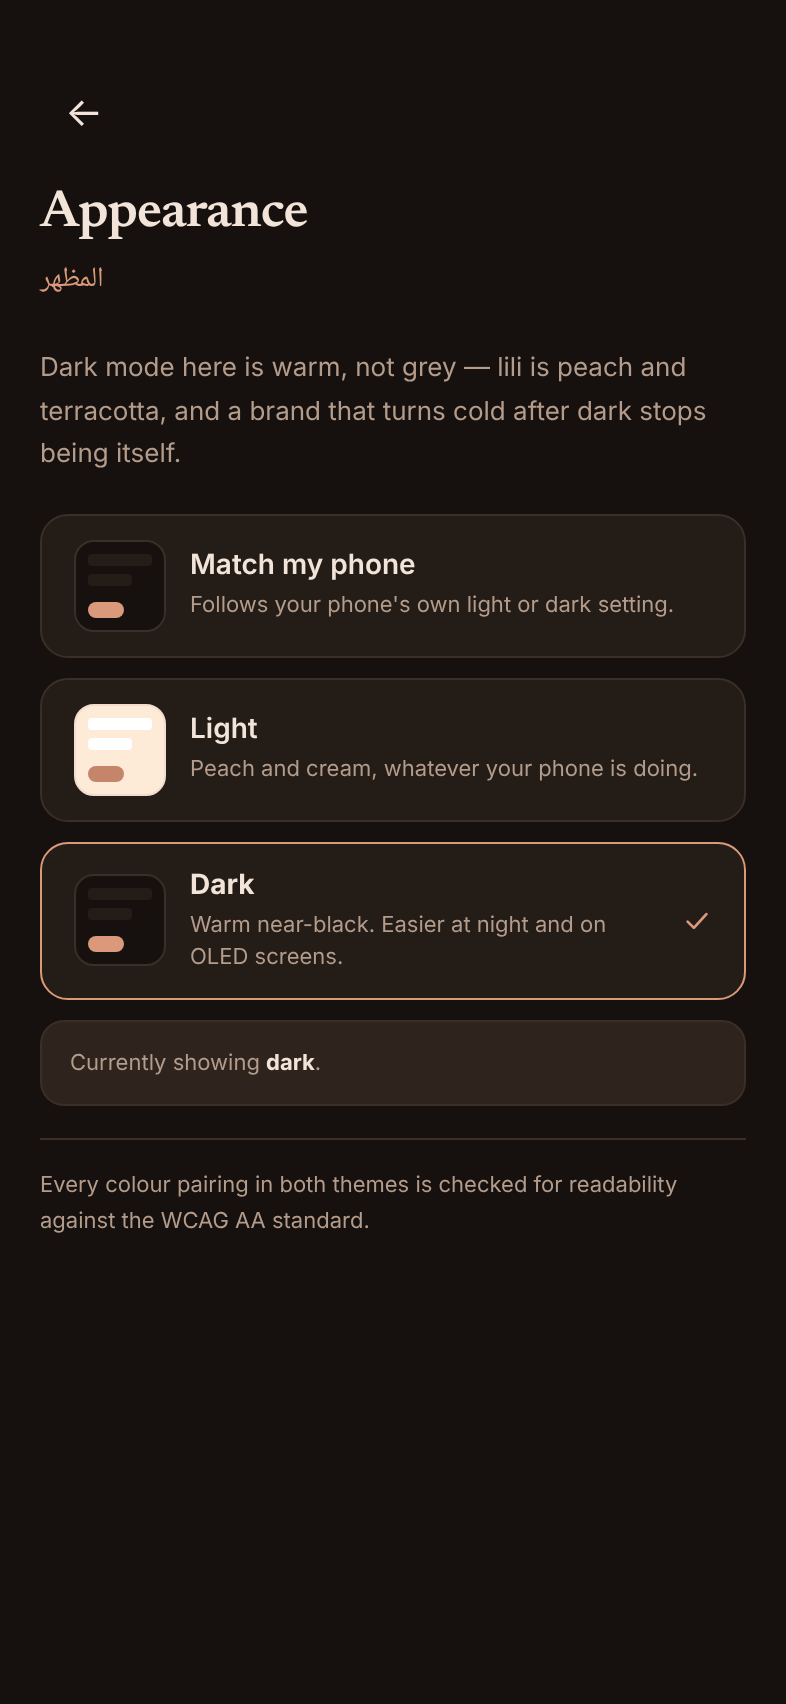
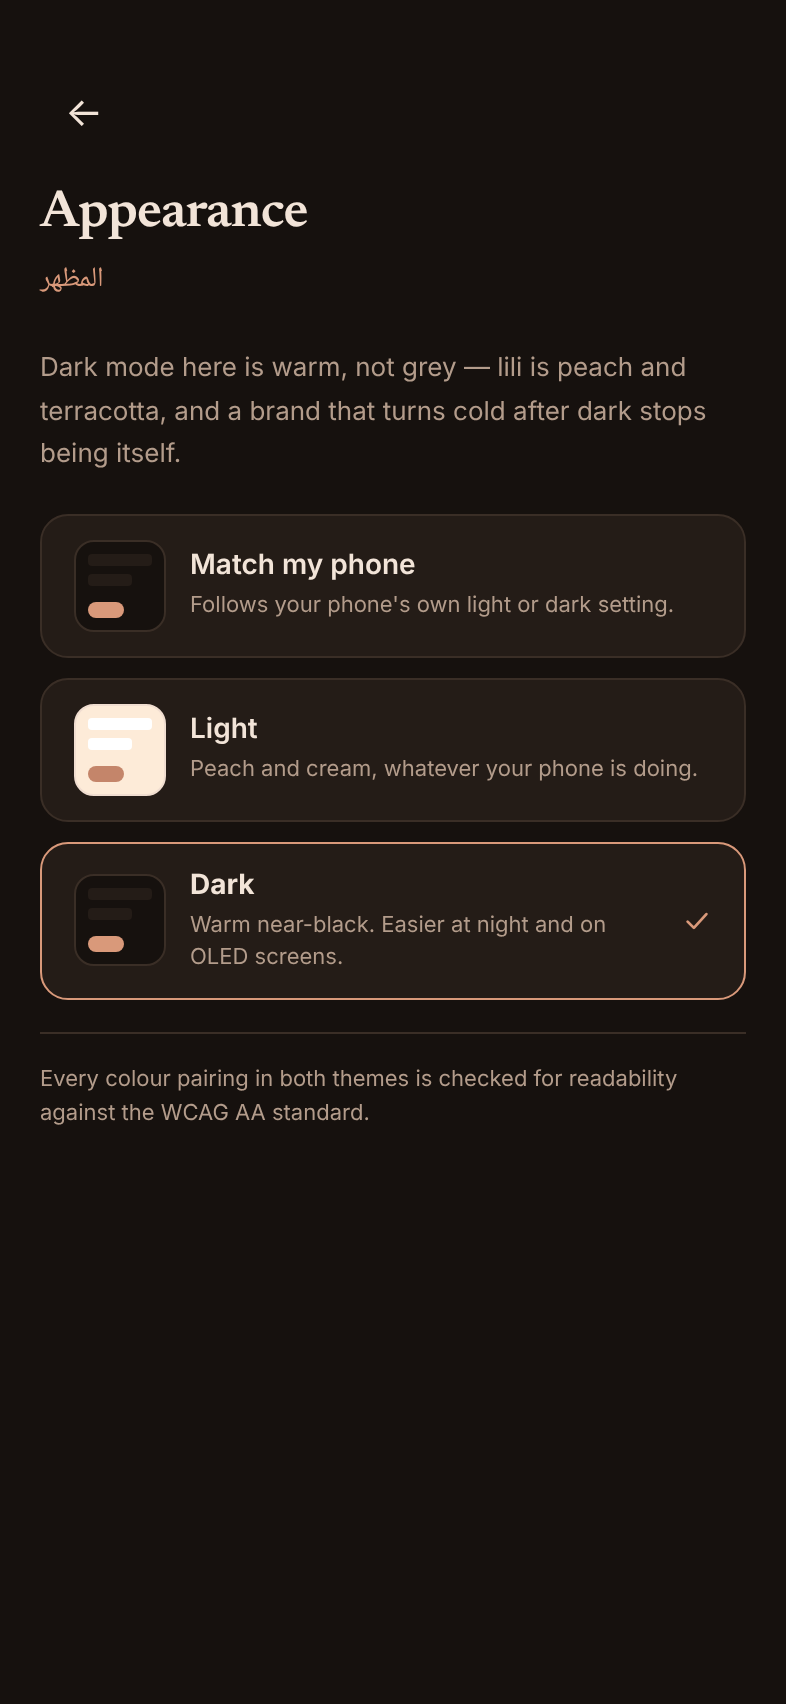
Feed polish: products without the pattern, honest shop rings, style picker and profile
- The palm pattern no longer sits behind product screens (home, search,
  saved, shops); it stays on the screens about lili
- The coloured ring around a shop now means it has new pieces (same 14-day
  rule as the NEW badge), and screen readers hear it; each shop in the strip
  is a button, so a keyboard can reach and scroll it (axe: scrollable region
  and prohibited aria-label fixed)
- Style picker tiles sit under the heading (the grid was centred, leaving a
  gap of about 380px, contrary to its own comment)
- Profile without a shop no longer shows '0 Listings / 0 Followers'
- Appearance shows 'Currently showing' only for Match my phone
- Offers row uses a tag glyph; brand labels on photo-less tiles fit narrow
  carousel tiles

Claude-Session: https://claude.ai/code/session_01P86DKSDSEYei5Au1GwvQne

Changed region(s): [[0.0305, 0.6221, 0.855, 0.7465], [0.7328, 0.6843, 0.855, 0.7154], [0.5802, 0.6843, 0.6718, 0.7154]]

diff --git a/app/src/Marketplace.jsx b/app/src/Marketplace.jsx
@@ -157,8 +157,10 @@ function TabBar({tab,setTab,myShop}) {
   );
 }
 
+const PRODUCT_TABS = ["home","search","saved","categories","shopview","myshop","cart","sellers"];
+
 // ── stories bar ────────────────────────────────────────────────────────────
-function StoriesBar({stories,shops,onStoryTap}) {
+function StoriesBar({stories,shops,items=[],onStoryTap}) {
   // v2.9: STORIES is a hardcoded five-element constant pointing at seed shop
   // ids. On a real catalogue those shops do not exist, `shops.find` returned
   // undefined and the label fell back to the word "Shop" — a row of stories
@@ -171,12 +173,19 @@ function StoriesBar({stories,shops,onStoryTap}) {
     <div style={{display:"flex",gap:10,padding:"10px 14px",overflowX:"auto",
       background:C.cream,borderBottom:`1px solid ${C.border}`}}>
       {live.map(({s,shop})=>{
+        // The coloured ring means "something new here" in every app she uses.
+        // It was drawn on every shop; now only where the shop has a piece
+        // that is actually a new arrival (same 14-day rule as the NEW badge).
+        const fresh = items.some(i => i.shopId === shop.id && isNewArrival(i));
         return (
-          <div key={s.id} onClick={()=>onStoryTap(s,shop)}
-            style={{display:"flex",flexDirection:"column",alignItems:"center",gap:5,cursor:"pointer",flexShrink:0}}>
+          // A button, not a clickable div: a keyboard (or switch) could not
+          // reach a single shop in this strip, nor scroll it.
+          <button key={s.id} onClick={()=>onStoryTap(s,shop)}
+            style={{display:"flex",flexDirection:"column",alignItems:"center",gap:5,cursor:"pointer",flexShrink:0,
+              background:"none",border:"none",padding:0,fontFamily:"inherit"}}>
             <div style={{width:58,height:58,borderRadius:"50%",
-              background:`linear-gradient(135deg,${C.terra},${C.gold})`,
-              padding:2.5,boxSizing:"border-box"}}>
+              background:fresh ? `linear-gradient(135deg,${C.terra},${C.gold})` : C.border,
+              padding:fresh ? 2.5 : 1,boxSizing:"border-box"}}>
               <div style={{width:"100%",height:"100%",borderRadius:"50%",
                 background:s.color,border:`2px solid ${C.white}`,
                 display:"flex",alignItems:"center",justifyContent:"center",fontSize:24}}>
@@ -197,8 +206,9 @@ function StoriesBar({stories,shops,onStoryTap}) {
               display:"-webkit-box",WebkitBoxOrient:"vertical",WebkitLineClamp:2,
               overflow:"hidden",overflowWrap:"anywhere"}}>
               {shop.name}
+              {fresh && <span className="sr-only">, new pieces</span>}
             </span>
-          </div>
+          </button>
         );
       })}
     </div>
@@ -471,7 +481,7 @@ function SplashScreen({onDone}) {
           label stranded at the top of an empty box. Rows size to their content
           now; the grid still occupies the column. */}
       <div style={{display:"grid",gridTemplateColumns:"repeat(3,1fr)",gap:12,
-        flex:1,alignContent:"center"}}>
+        flex:1,alignContent:"start"}}>
         {styles_list.map(s=>(
           <button data-bilingual="category" key={s.label} onClick={()=>toggle(s.label)} style={{
             background:picked.includes(s.label)?C.terra:C.white,
@@ -637,7 +647,7 @@ function HomePage({items,shops,onSave,setModal,filters,setFilters,stories,setAct
         onSeeAll={()=>{setQ("");setFilters({...EMPTY_FILTERS,sort:DEFAULT_SORT});}}/>
       {/* Shops come after the first pieces, not before them: a row of shop
           circles above the feed pushed the first garment half a screen down. */}
-      <StoriesBar stories={stories} shops={shops} onStoryTap={(s,sh)=>setActiveStory({story:s,shop:sh})}/>
+      <StoriesBar stories={stories} shops={shops} items={items} onStoryTap={(s,sh)=>setActiveStory({story:s,shop:sh})}/>
       <div style={{height:1,background:C.border,margin:"4px 14px 14px"}}/>
 
       {/* v2.11.1 — this heading sat ABOVE the New In strip while describing
@@ -1231,7 +1241,10 @@ export default function Marketplace() {
   return (
     <div className="full-height" style={{background:C.bg,position:"relative",
       maxWidth:430,margin:"0 auto",fontFamily:"var(--font-sans)"}}>
-      <PalmBg/>
+      {/* The palm pattern is lili's, but not behind a photograph: on product
+          screens it competed with the pieces (the same reason the ground moved
+          from peach to cream). It stays on the screens that are about lili. */}
+      {!PRODUCT_TABS.includes(tab) && <PalmBg/>}
       <div style={{position:"relative",zIndex:1}}>
         {/* v2.10.1 — said out loud, once, at the top.
             Until now this state was a console line: the app looked completely

diff --git a/app/src/pages/ProfilePage.jsx b/app/src/pages/ProfilePage.jsx
@@ -29,7 +29,7 @@ export function ProfilePage({myShop,items,setTab,onOpenLegal,onOpenPreferences,o
     { title: t("your_shop_group"), rows: [
       {label:t("my_listings"),icon:"dress",action:()=>setTab(myShop?"myshop":"sell")},
       {label:t("saved"),icon:"heart",action:()=>setTab("saved")},
-      {label:t("offers"),icon:"handshake",action:()=>setTab("offers")},
+      {label:t("offers"),icon:"tag",action:()=>setTab("offers")},
       {label:t("messages"),icon:"chat",action:()=>setTab("messages")},
       {label:t("purchases"),icon:"cart",action:()=>onOpenOrders&&onOpenOrders("buyer")},
       {label:"Shop orders",icon:"truck",action:()=>onOpenOrders&&onOpenOrders("seller")},
@@ -87,7 +87,10 @@ export function ProfilePage({myShop,items,setTab,onOpenLegal,onOpenPreferences,o
           </div>
         </div>
 
-        <div style={{display:"flex",justifyContent:"space-around",padding:"16px 0",
+        {/* Only once there is a shop: "0 Listings · 0 Followers" in large type
+            on a new account greeted her with two zeros and nothing to do
+            about them. Without a shop, Open Your Shop below is the whole story. */}
+        {myShop && <div style={{display:"flex",justifyContent:"space-around",padding:"16px 0",
           background:C.white,borderRadius:14,border:`1px solid ${C.border}`,marginBottom:16}}>
           {/* Followers and following were hard-coded numbers. A count is shown
               once there is something counting it; until then the row carries
@@ -98,7 +101,7 @@ export function ProfilePage({myShop,items,setTab,onOpenLegal,onOpenPreferences,o
               <div style={{fontSize:11,color:C.inkLt,marginTop:2}}>{l}</div>
             </div>
           ))}
-        </div>
+        </div>}
 
         {myShop
           ? <div onClick={()=>setTab("myshop")} style={{background:myShop.banner||C.terra,borderRadius:14,

diff --git a/app/src/theme/ThemePicker.jsx b/app/src/theme/ThemePicker.jsx
@@ -56,13 +56,15 @@ export default function ThemePicker({ onBack }) {
         );
       })}
 
-      <div style={{ background: C.sand, border: `1px solid ${C.border}`, borderRadius: 12,
+      {/* Only for "Match my phone", where the tick cannot say which theme is
+          on screen; with Light or Dark chosen the tick already says it. */}
+      {mode === "system" && <div style={{ background: C.sand, border: `1px solid ${C.border}`, borderRadius: 12,
                     padding: "12px 14px", marginTop: 6 }}>
         <div style={{ fontSize: 11, color: C.inkLt, lineHeight: 1.6 }}>
           Currently showing <b style={{ color: C.ink }}>{effective}</b>
           {mode === "system" && " — following your phone"}.
         </div>
-      </div>
+      </div>}
 
       <Note>
         Every colour pairing in both themes is checked for readability against

diff --git a/app/src/market/shared.jsx b/app/src/market/shared.jsx
@@ -493,7 +493,8 @@ function BrandMark({item, size}) {
   // Sized so the longest WORD fits a carousel tile (~110px inside its margin):
   // a brand broken mid-word — "ZIMME / RMANN" — reads as a bug, not a label.
   const longest = Math.max(...String(item.brand).split(/\s+/).map(w => w.length), 1);
-  const fit = 110 / (longest * 0.86);
+  // 0.95em per capital incl. tracking, so typeScale's rounding never overshoots
+  const fit = 104 / (longest * 0.95);
   return (
     <div style={{fontFamily:"var(--font-display)",fontWeight:600,textTransform:"uppercase",
       letterSpacing:"0.12em",textAlign:"center",lineHeight:1.15,
